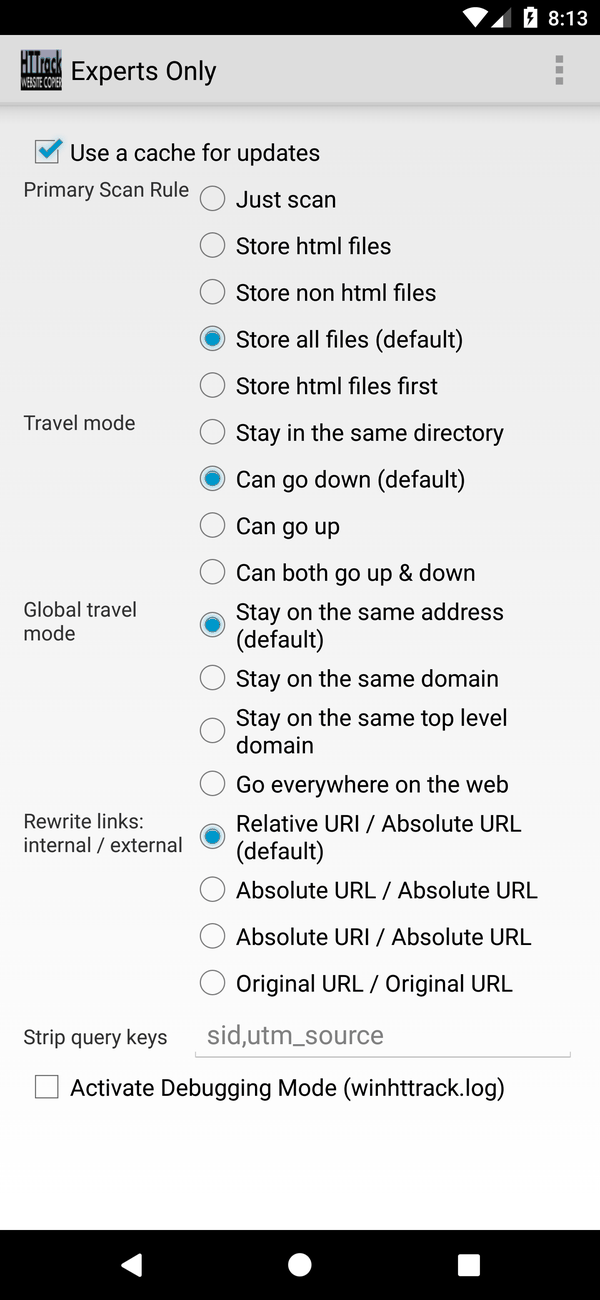
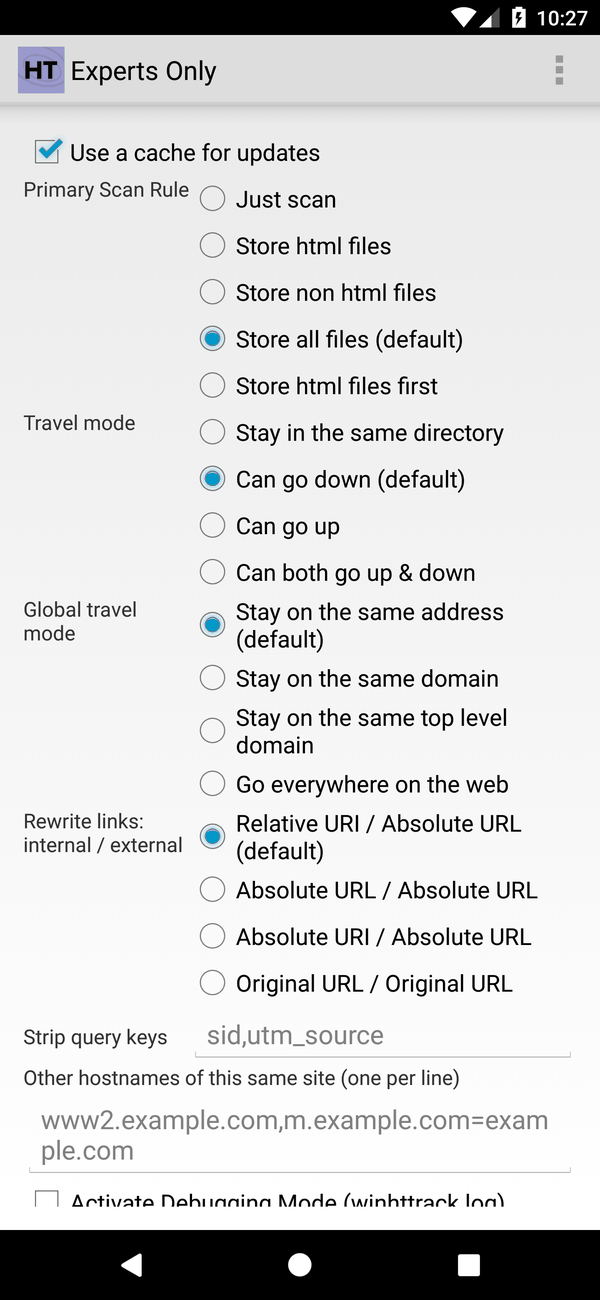
Reshoot the WebHTTrack and Android guide screenshots
The web set predated #1166 and #1176, so the Spider tab showed neither the
Host aliases box nor the four-row Strip query keys that replaced a single
line. It is 229 px taller as a result, and guide.html's hardcoded height
moves with it. The Android set predated #97, #114 and #116.

Captures from httrack-works 1af9fed, the Android half shot at httrack-android
f3123ad. Regenerated with tools/doc-images.py png.

diff --git a/html/guide.html b/html/guide.html
@@ -629,7 +629,7 @@ bottom are the ones that keep you welcome.</p>
 
 <figure>
 	<img data-for="win" src="img/guide-win-opt-spider.png" alt="WinHTTrack Spider tab" width="524" height="448">
-	<img data-for="web" src="img/guide-web-opt-spider.png" alt="WebHTTrack Spider tab" width="1024" height="1541">
+	<img data-for="web" src="img/guide-web-opt-spider.png" alt="WebHTTrack Spider tab" width="1024" height="1770">
 	<img data-for="droid" src="img/guide-droid-opt-spider.png" alt="Android Spider tab" width="600" height="1300">
 </figure>
 
